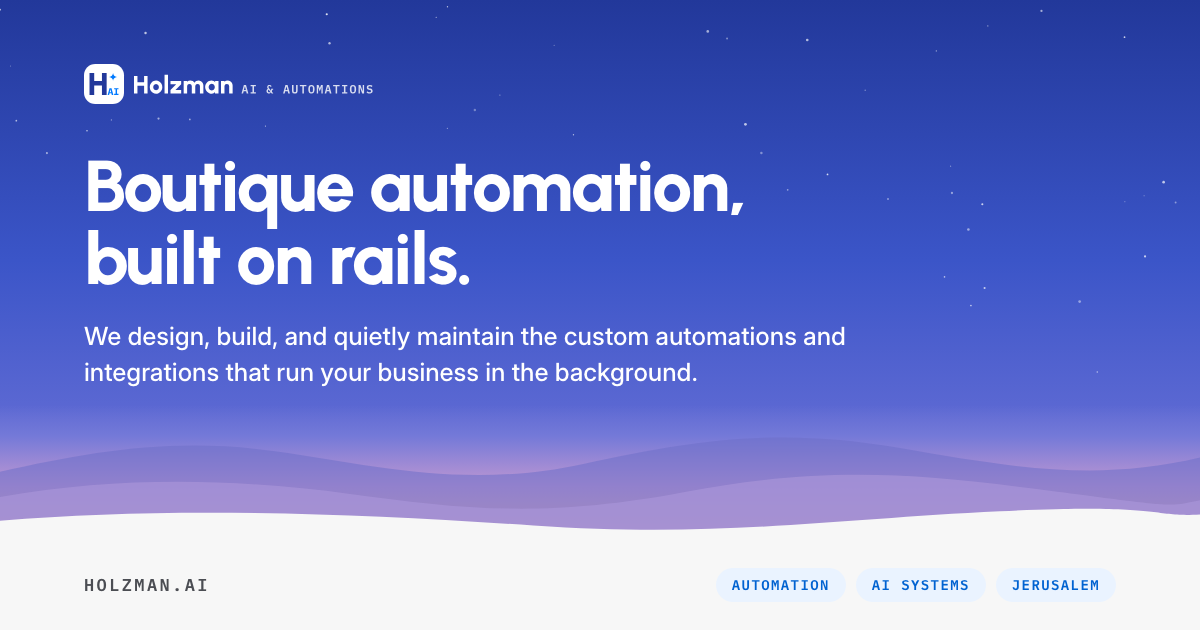
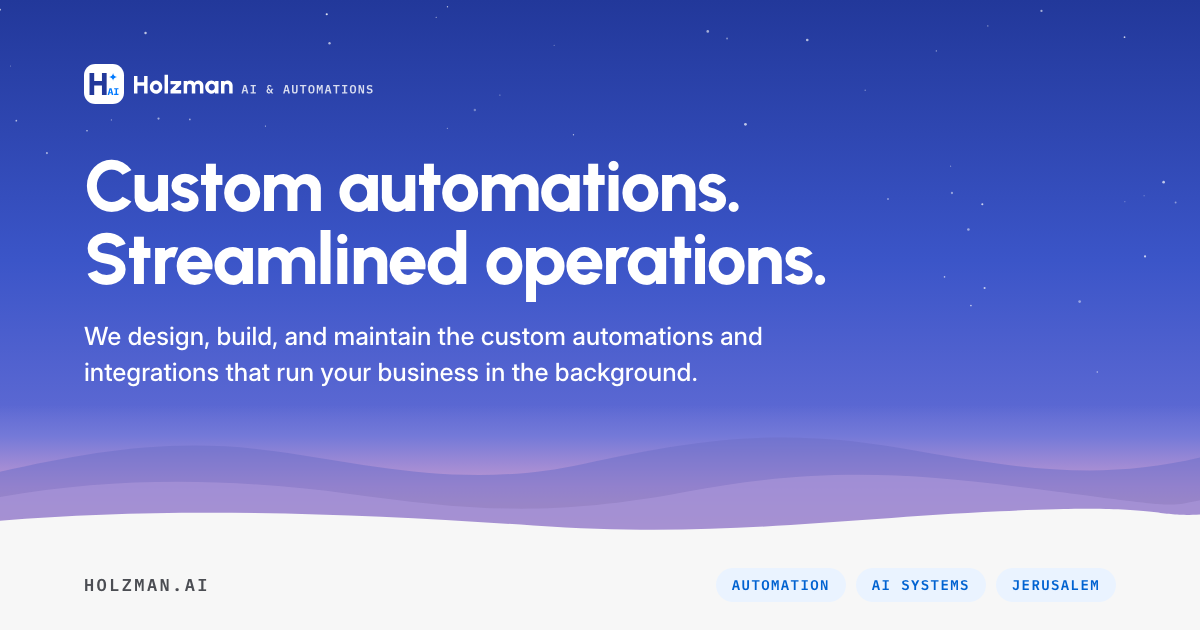
Site copy: new tagline and description (#9)
- Tagline: "Custom automations. Streamlined operations." in the home title,
  the share-card titles, the image alt text on every page and the
  structured-data slogan.
- Description: "AI and automation consultancy. We design, build, and maintain
  the custom automations and integrations that run your business in the
  background." in the meta, Open Graph and Twitter descriptions; the
  structured data and llms.txt use the same wording.
- Home headline: "Streamlined operations, not someone's to-do list."; the line
  under it drops "quietly"; the first section is titled "An AI and automation
  consultancy".
- Amazon sellers headline: "The Amazon back office, streamlined."
- og-card.png rebuilt with the new words.

Claude-Session: https://claude.ai/code/session_01AERRPpTDgg6NZc7TWYv135

Changed region(s): [[0.0617, 0.2413, 0.7092, 0.4825], [0.2775, 0.5127, 0.7092, 0.573]]

diff --git a/index.html b/index.html
@@ -3,8 +3,8 @@
 <head>
 <meta charset="utf-8" />
 <meta name="viewport" content="width=device-width, initial-scale=1" />
-<title>Holzman AI & Automations — Boutique automation, built on rails.</title>
-<meta name="description" content="Boutique automation studio. We design, build, and quietly maintain the custom automations and integrations that run your business in the background." />
+<title>Holzman AI & Automations — Custom automations. Streamlined operations.</title>
+<meta name="description" content="AI and automation consultancy. We design, build, and maintain the custom automations and integrations that run your business in the background." />
 <link rel="canonical" href="https://holzman.ai/" />
 
 <link rel="icon" href="/favicon.svg" type="image/svg+xml" />
@@ -15,18 +15,18 @@
 <meta property="og:site_name" content="Holzman AI &amp; Automations" />
 <meta property="og:locale" content="en_US" />
 <meta property="og:url" content="https://holzman.ai/" />
-<meta property="og:title" content="Holzman AI &amp; Automations — Boutique automation, built on rails." />
-<meta property="og:description" content="Boutique automation studio. We design, build, and quietly maintain the custom automations and integrations that run your business in the background." />
+<meta property="og:title" content="Holzman AI &amp; Automations — Custom automations. Streamlined operations." />
+<meta property="og:description" content="AI and automation consultancy. We design, build, and maintain the custom automations and integrations that run your business in the background." />
 <meta property="og:image" content="https://holzman.ai/og-card.png" />
 <meta property="og:image:type" content="image/png" />
 <meta property="og:image:width" content="1200" />
 <meta property="og:image:height" content="630" />
-<meta property="og:image:alt" content="Holzman AI &amp; Automations — Boutique automation, built on rails." />
+<meta property="og:image:alt" content="Holzman AI &amp; Automations — Custom automations. Streamlined operations." />
 <meta name="twitter:card" content="summary_large_image" />
-<meta name="twitter:title" content="Holzman AI &amp; Automations — Boutique automation, built on rails." />
-<meta name="twitter:description" content="Boutique automation studio. We design, build, and quietly maintain the custom automations and integrations that run your business in the background." />
+<meta name="twitter:title" content="Holzman AI &amp; Automations — Custom automations. Streamlined operations." />
+<meta name="twitter:description" content="AI and automation consultancy. We design, build, and maintain the custom automations and integrations that run your business in the background." />
 <meta name="twitter:image" content="https://holzman.ai/og-card.png" />
-<meta name="twitter:image:alt" content="Holzman AI &amp; Automations — Boutique automation, built on rails." />
+<meta name="twitter:image:alt" content="Holzman AI &amp; Automations — Custom automations. Streamlined operations." />
 <script type="application/ld+json">
 {
   "@context": "https://schema.org",
@@ -36,8 +36,8 @@
       "@id": "https://holzman.ai/#organization",
       "name": "Holzman AI & Automations",
       "url": "https://holzman.ai/",
-      "slogan": "Boutique automation, built on rails.",
-      "description": "A boutique automation studio that designs, builds, and quietly maintains the custom automations, AI-assisted tools, and integrations that run a business in the background. Based in Jerusalem, Israel; works with clients remotely.",
+      "slogan": "Custom automations. Streamlined operations.",
+      "description": "An AI and automation consultancy that designs, builds, and maintains the custom automations, AI-assisted tools, and integrations that run a business in the background. Based in Jerusalem, Israel; works with clients remotely.",
       "founder": {
         "@type": "Person",
         "@id": "https://holzman.ai/#shmuel-holzman",
@@ -254,8 +254,8 @@
       </div>
     </nav>
     <div class="dusk-copy">
-      <h1 class="h-hero">Put your operations on rails, not on someone's to-do list.</h1>
-      <p class="lead">We design, build, and quietly maintain the automations that run your business in the background.</p>
+      <h1 class="h-hero">Streamlined operations, not someone's to-do list.</h1>
+      <p class="lead">We design, build, and maintain the automations that run your business in the background.</p>
       <div class="dusk-ctas">
         <a class="btn btn-white" href="#contact">Start a conversation</a>
         <a class="btn btn-ghost" href="/examples">See 32 automation examples</a>
@@ -270,7 +270,7 @@
     <div class="float">
       <div class="float-in eng">
         <div class="copy">
-          <h2>A boutique automation studio</h2>
+          <h2>An AI and automation consultancy</h2>
           <p>Custom automations, AI-assisted tools, and integrations between the software you already use.</p>
           <p>You describe the work; we take the technical burden off your desk and keep it off.</p>
         </div>

diff --git a/amazon-sellers.html b/amazon-sellers.html
@@ -21,12 +21,12 @@
 <meta property="og:image:type" content="image/png" />
 <meta property="og:image:width" content="1200" />
 <meta property="og:image:height" content="630" />
-<meta property="og:image:alt" content="Holzman AI &amp; Automations — Boutique automation, built on rails." />
+<meta property="og:image:alt" content="Holzman AI &amp; Automations — Custom automations. Streamlined operations." />
 <meta name="twitter:card" content="summary_large_image" />
 <meta name="twitter:title" content="Automation for Amazon sellers — Holzman AI &amp; Automations" />
 <meta name="twitter:description" content="Operations automation for Amazon-first brands: reports that explain why numbers moved, listings drafted your way, data you can ask in chat. Free ASIN teardown." />
 <meta name="twitter:image" content="https://holzman.ai/og-card.png" />
-<meta name="twitter:image:alt" content="Holzman AI &amp; Automations — Boutique automation, built on rails." />
+<meta name="twitter:image:alt" content="Holzman AI &amp; Automations — Custom automations. Streamlined operations." />
 <script type="application/ld+json">
 {
   "@context": "https://schema.org",
@@ -133,7 +133,7 @@
       </div>
     </nav>
     <div class="dusk-copy">
-      <h1 class="h-hero">The Amazon back office, on rails.</h1>
+      <h1 class="h-hero">The Amazon back office, streamlined.</h1>
       <p class="lead">Reporting, listings, wholesale data, inventory. Built for one seller at a time, then quietly maintained.</p>
       <div class="dusk-ctas">
         <a class="btn btn-white" href="#teardown">Send me one ASIN <span class="arr" aria-hidden="true">→</span></a>

diff --git a/accessibility.html b/accessibility.html
@@ -21,12 +21,12 @@
 <meta property="og:image:type" content="image/png" />
 <meta property="og:image:width" content="1200" />
 <meta property="og:image:height" content="630" />
-<meta property="og:image:alt" content="Holzman AI &amp; Automations — Boutique automation, built on rails." />
+<meta property="og:image:alt" content="Holzman AI &amp; Automations — Custom automations. Streamlined operations." />
 <meta name="twitter:card" content="summary_large_image" />
 <meta name="twitter:title" content="Accessibility Statement" />
 <meta name="twitter:description" content="Accessibility Statement (הצהרת נגישות) for holzman.ai: our commitment to IS 5568 and WCAG 2.0 AA, what we&#x27;ve done, and how to contact us." />
 <meta name="twitter:image" content="https://holzman.ai/og-card.png" />
-<meta name="twitter:image:alt" content="Holzman AI &amp; Automations — Boutique automation, built on rails." />
+<meta name="twitter:image:alt" content="Holzman AI &amp; Automations — Custom automations. Streamlined operations." />
 <link rel="preconnect" href="https://fonts.googleapis.com">
 <link rel="preconnect" href="https://fonts.gstatic.com" crossorigin>
 <link href="https://fonts.googleapis.com/css2?family=Urbanist:wght@700;800&family=Inter:wght@400;500;600&family=IBM+Plex+Mono:wght@500&display=swap" rel="stylesheet">

diff --git a/privacy.html b/privacy.html
@@ -21,12 +21,12 @@
 <meta property="og:image:type" content="image/png" />
 <meta property="og:image:width" content="1200" />
 <meta property="og:image:height" content="630" />
-<meta property="og:image:alt" content="Holzman AI &amp; Automations — Boutique automation, built on rails." />
+<meta property="og:image:alt" content="Holzman AI &amp; Automations — Custom automations. Streamlined operations." />
 <meta name="twitter:card" content="summary_large_image" />
 <meta name="twitter:title" content="Ledgerly Privacy Policy" />
 <meta name="twitter:description" content="Privacy Policy for Ledgerly, the Amazon SP-API app by Holzman AI &amp; Automations: how seller data is collected, used, protected, shared, and deleted." />
 <meta name="twitter:image" content="https://holzman.ai/og-card.png" />
-<meta name="twitter:image:alt" content="Holzman AI &amp; Automations — Boutique automation, built on rails." />
+<meta name="twitter:image:alt" content="Holzman AI &amp; Automations — Custom automations. Streamlined operations." />
 <link rel="preconnect" href="https://fonts.googleapis.com">
 <link rel="preconnect" href="https://fonts.gstatic.com" crossorigin>
 <link href="https://fonts.googleapis.com/css2?family=Urbanist:wght@700;800&family=Inter:wght@400;500;600&family=IBM+Plex+Mono:wght@500&display=swap" rel="stylesheet">

diff --git a/terms.html b/terms.html
@@ -21,12 +21,12 @@
 <meta property="og:image:type" content="image/png" />
 <meta property="og:image:width" content="1200" />
 <meta property="og:image:height" content="630" />
-<meta property="og:image:alt" content="Holzman AI &amp; Automations — Boutique automation, built on rails." />
+<meta property="og:image:alt" content="Holzman AI &amp; Automations — Custom automations. Streamlined operations." />
 <meta name="twitter:card" content="summary_large_image" />
 <meta name="twitter:title" content="Ledgerly Terms of Service" />
 <meta name="twitter:description" content="Terms of Service for Ledgerly, the Amazon Selling Partner API application built by Holzman AI &amp; Automations." />
 <meta name="twitter:image" content="https://holzman.ai/og-card.png" />
-<meta name="twitter:image:alt" content="Holzman AI &amp; Automations — Boutique automation, built on rails." />
+<meta name="twitter:image:alt" content="Holzman AI &amp; Automations — Custom automations. Streamlined operations." />
 <link rel="preconnect" href="https://fonts.googleapis.com">
 <link rel="preconnect" href="https://fonts.gstatic.com" crossorigin>
 <link href="https://fonts.googleapis.com/css2?family=Urbanist:wght@700;800&family=Inter:wght@400;500;600&family=IBM+Plex+Mono:wght@500&display=swap" rel="stylesheet">

diff --git a/privacy-policy.html b/privacy-policy.html
@@ -21,12 +21,12 @@
 <meta property="og:image:type" content="image/png" />
 <meta property="og:image:width" content="1200" />
 <meta property="og:image:height" content="630" />
-<meta property="og:image:alt" content="Holzman AI &amp; Automations — Boutique automation, built on rails." />
+<meta property="og:image:alt" content="Holzman AI &amp; Automations — Custom automations. Streamlined operations." />
 <meta name="twitter:card" content="summary_large_image" />
 <meta name="twitter:title" content="Privacy Policy" />
 <meta name="twitter:description" content="Privacy Policy for holzman.ai — what the contact form collects, why, where it lives, and your rights." />
 <meta name="twitter:image" content="https://holzman.ai/og-card.png" />
-<meta name="twitter:image:alt" content="Holzman AI &amp; Automations — Boutique automation, built on rails." />
+<meta name="twitter:image:alt" content="Holzman AI &amp; Automations — Custom automations. Streamlined operations." />
 <link rel="preconnect" href="https://fonts.googleapis.com">
 <link rel="preconnect" href="https://fonts.gstatic.com" crossorigin>
 <link href="https://fonts.googleapis.com/css2?family=Urbanist:wght@700;800&family=Inter:wght@400;500;600&family=IBM+Plex+Mono:wght@500&display=swap" rel="stylesheet">

diff --git a/amazon-pnl.html b/amazon-pnl.html
@@ -21,12 +21,12 @@
 <meta property="og:image:type" content="image/png" />
 <meta property="og:image:width" content="1200" />
 <meta property="og:image:height" content="630" />
-<meta property="og:image:alt" content="Holzman AI &amp; Automations — Boutique automation, built on rails." />
+<meta property="og:image:alt" content="Holzman AI &amp; Automations — Custom automations. Streamlined operations." />
 <meta name="twitter:card" content="summary_large_image" />
 <meta name="twitter:title" content="MarginStory — Monthly Amazon P&amp;L Analyst" />
 <meta name="twitter:description" content="MarginStory turns your Amazon numbers into a written monthly P&amp;L narrative: what moved, why, and what to watch. Reconciled and signed by a human." />
 <meta name="twitter:image" content="https://holzman.ai/og-card.png" />
-<meta name="twitter:image:alt" content="Holzman AI &amp; Automations — Boutique automation, built on rails." />
+<meta name="twitter:image:alt" content="Holzman AI &amp; Automations — Custom automations. Streamlined operations." />
 <script type="application/ld+json">
 {
   "@context": "https://schema.org",

diff --git a/ledgerly.html b/ledgerly.html
@@ -21,12 +21,12 @@
 <meta property="og:image:type" content="image/png" />
 <meta property="og:image:width" content="1200" />
 <meta property="og:image:height" content="630" />
-<meta property="og:image:alt" content="Holzman AI &amp; Automations — Boutique automation, built on rails." />
+<meta property="og:image:alt" content="Holzman AI &amp; Automations — Custom automations. Streamlined operations." />
 <meta name="twitter:card" content="summary_large_image" />
 <meta name="twitter:title" content="Ledgerly" />
 <meta name="twitter:description" content="Tailored Amazon seller automations for listings, orders, pricing, messages, and account health. Built and maintained by Holzman AI &amp; Automations." />
 <meta name="twitter:image" content="https://holzman.ai/og-card.png" />
-<meta name="twitter:image:alt" content="Holzman AI &amp; Automations — Boutique automation, built on rails." />
+<meta name="twitter:image:alt" content="Holzman AI &amp; Automations — Custom automations. Streamlined operations." />
 <script type="application/ld+json">
 {
   "@context": "https://schema.org",
